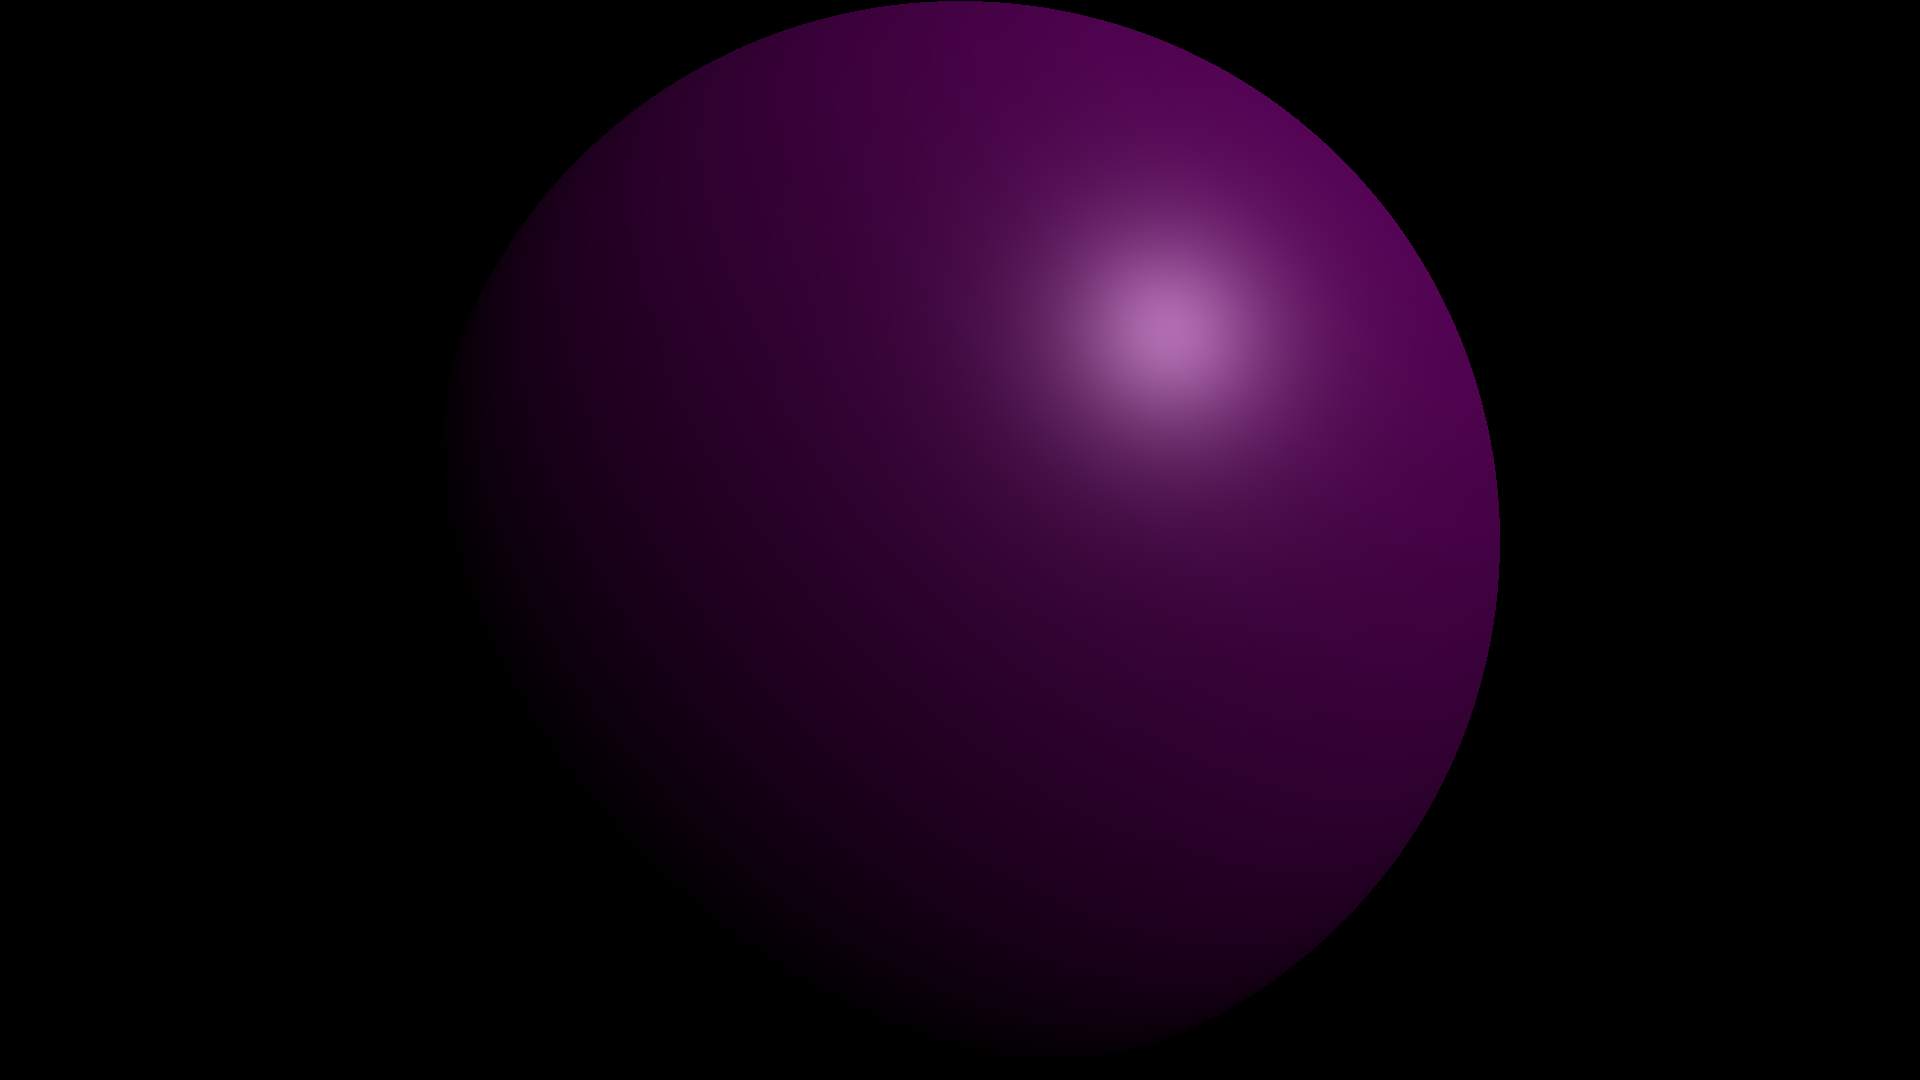
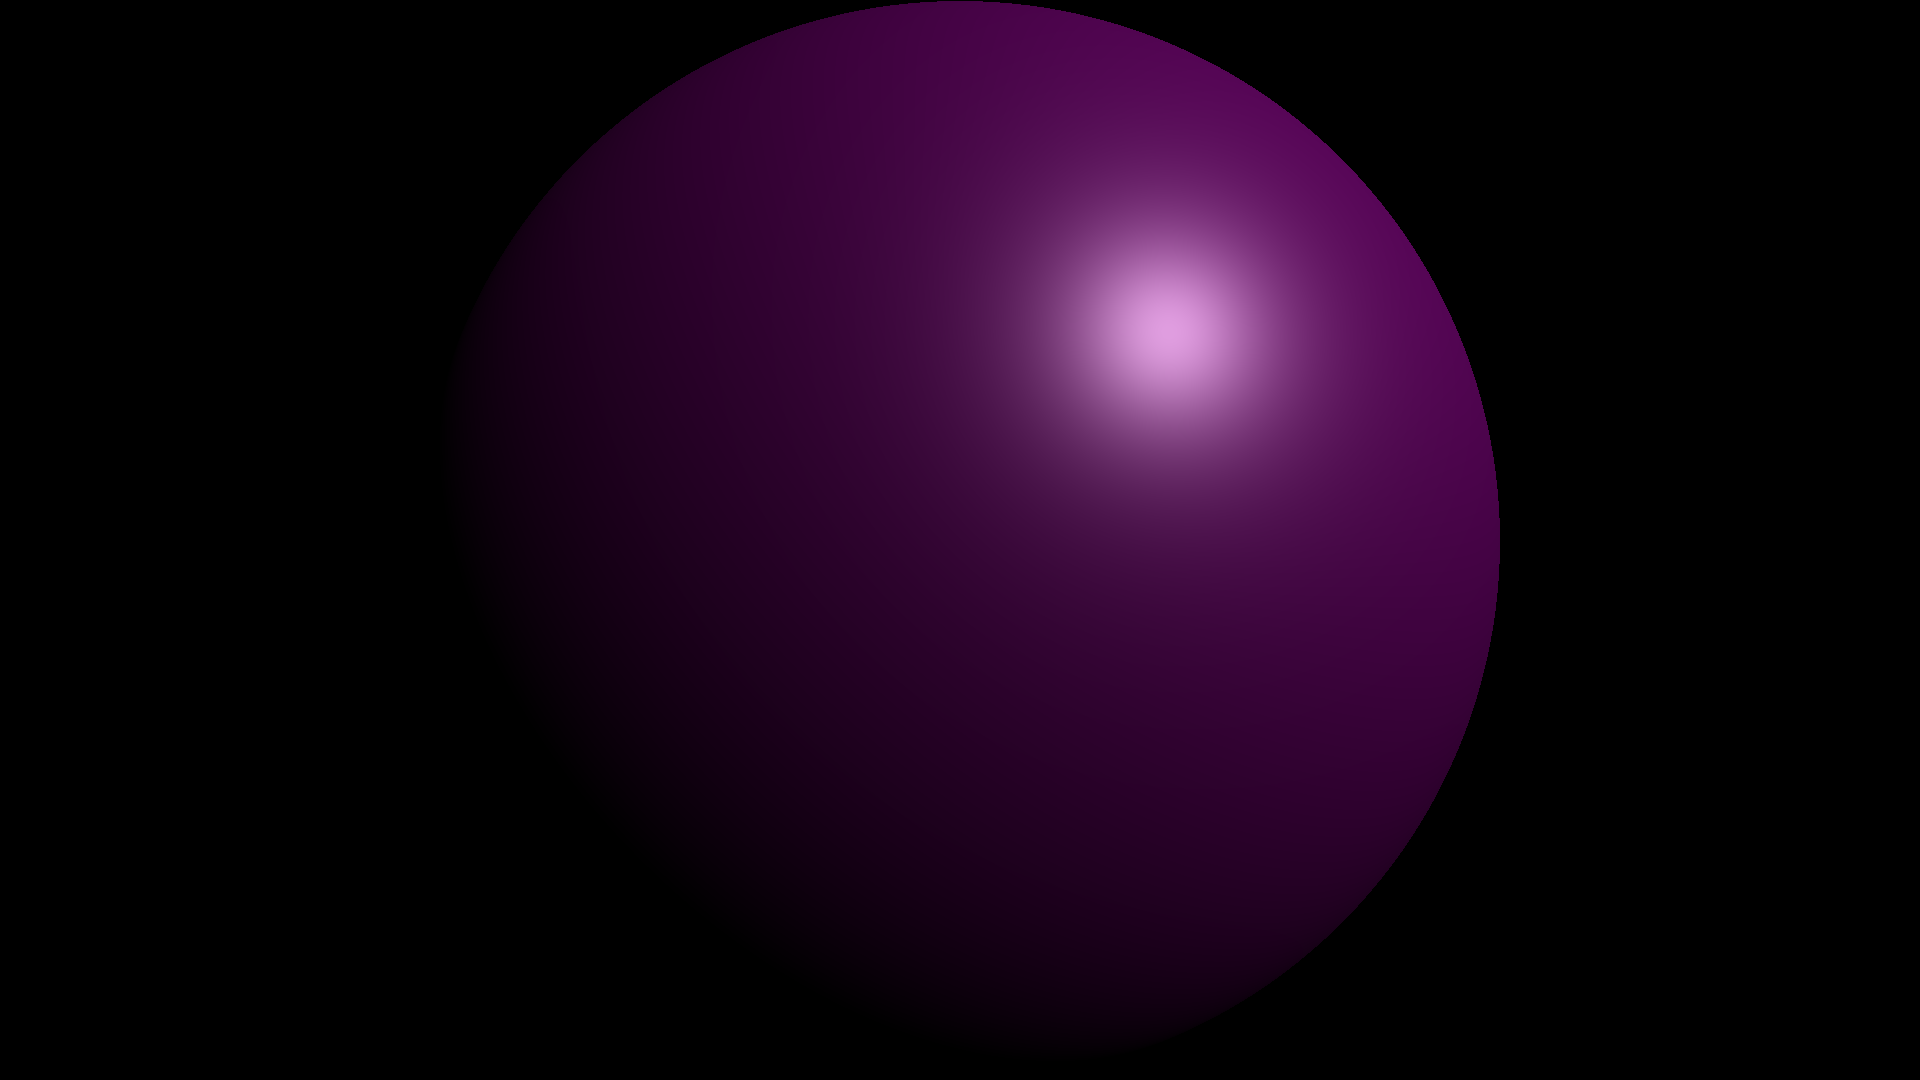
Material reflectance and transmittance
Also configurable typedef for Arc and world default

And a more digestible write_png function in spherecast

Changed region(s): [[0.5625, 0.2139, 0.6562, 0.3972]]

diff --git a/src/primitive/sphere.rs b/src/primitive/sphere.rs
@@ -2,16 +2,16 @@ use crate::math::*;
 use crate::{Ray, Hit, Material};
 use nalgebra_glm as glm;
 use super::Primitive;
-use std::sync::Arc;
+use std::sync::Arc as Shared;
 
 #[derive(Debug)]
 pub struct Sphere {
     pub center: Vec3,
     pub radius: Scalar,
-    pub material: Arc<Material>,
+    pub material: Shared<Material>,
 }
 impl Sphere {
-    pub fn new(center: Vec3, radius: Scalar, material: &Arc<Material>) -> Self {
+    pub fn new(center: Vec3, radius: Scalar, material: &Shared<Material>) -> Self {
         Sphere {
             center: center,
             radius: radius,
@@ -56,12 +56,12 @@ mod tests {
     use crate::{Ray, Material};
     use super::{Primitive, Sphere};
     use nalgebra_glm as glm;
-    use std::sync::Arc;
+    use std::sync::Arc as Shared;
 
     #[test]
     fn sphere_at_origin_closest_intersection() {
         let ray = Ray::new(Vec3::new(0.0, 0.0, -2.0), *consts::FORWARD);
-        let sphere = Sphere::new(*consts::ORIGIN, 1.0, &Arc::new(Material::default()));
+        let sphere = Sphere::new(*consts::ORIGIN, 1.0, &Shared::new(Material::default()));
         let hit = sphere.nearest_intersection(&ray).unwrap();
 
         assert!((hit.distance - 1.0).abs() <= consts::EPSILON);
@@ -71,7 +71,7 @@ mod tests {
     #[test]
     fn sphere_at_origin_miss() {
         let ray = Ray::new(Vec3::new(0.0, 0.0, -2.0), glm::normalize(&Vec3::new(0.0, 1.0, 1.0)));
-        let sphere = Sphere::new(*consts::ORIGIN, 1.0, &Arc::new(Material::default()));
+        let sphere = Sphere::new(*consts::ORIGIN, 1.0, &Shared::new(Material::default()));
         let hit = sphere.nearest_intersection(&ray);
         assert!(hit.is_none());
     }
@@ -79,7 +79,7 @@ mod tests {
     #[test]
     fn sphere_at_origign_cull_rear_intersections() {
         let ray = Ray::new(*consts::ORIGIN, *consts::FORWARD);
-        let sphere = Sphere::new(*consts::ORIGIN, 1.0, &Arc::new(Material::default()));
+        let sphere = Sphere::new(*consts::ORIGIN, 1.0, &Shared::new(Material::default()));
         let hit = sphere.nearest_intersection(&ray).unwrap();
 
         assert!((hit.distance - 1.0).abs() <= consts::EPSILON);
@@ -89,7 +89,7 @@ mod tests {
     #[test]
     fn sphere_translated_closest_intersection() {
         let ray = Ray::new(*consts::ORIGIN, *consts::FORWARD);
-        let sphere = Sphere::new(Vec3::new(0.0, 0.0, 11.0), 1.0, &Arc::new(Material::default()));
+        let sphere = Sphere::new(Vec3::new(0.0, 0.0, 11.0), 1.0, &Shared::new(Material::default()));
         let hit = sphere.nearest_intersection(&ray).unwrap();
 
         println!("{:?} {:?}", sphere, hit);

diff --git a/src/material.rs b/src/material.rs
@@ -1,27 +1,33 @@
-/**
- * UE4-like material model defined by roughness, metallic, and albedo
- */
 use crate::math::Vec3;
 use crate::{Ray, Color3};
 use nalgebra_glm as glm;
 use std::f32::consts::PI;
 
-// TODO: textures
-// TODO: emissive
+/**
+ * A physically-based material model
+ * TODO: textures
+ * TODO: should area lights be implemented by adding an emissive component?
+ */
 #[derive(Debug, Copy, Clone)]
 pub struct Material {
     pub roughness: f32,
     pub metallic: f32,
     pub albedo: Color3,
+    pub reflectance: Color3,
+    pub transmittance: Color3,
     pub ior: f32,
+    pub fresnel_ior: f32, // separate the IOR used in shading from the IOR used for refraction, solely for artistic expressiveness (not physically-based)
 }
 impl Material {
-    pub fn new(roughness: f32, metallic: f32, albedo: Color3, ior: f32) -> Self {
+    pub fn new(roughness: f32, metallic: f32, albedo: Color3, reflectance: Color3, transmittance: Color3, ior: f32) -> Self {
         Material {
             roughness: roughness,
             metallic: metallic,
             albedo: albedo,
+            reflectance: reflectance,
+            transmittance: transmittance,
             ior: ior,
+            fresnel_ior: ior,
         }
     }
 
@@ -60,8 +66,9 @@ impl Material {
         let g = g1_l * g1_v;
 
         // F: schlick's fresnel approximation
-        let sqrt_f0 = (1.0 - self.ior) / (1.0 + self.ior); // the 1.0 is the
+        let sqrt_f0 = (1.0 - self.fresnel_ior) / (1.0 + self.fresnel_ior); // the 1.0 is the IOR of the material the ray is exiting (assumed air)
         let f0 = Color3::gray(sqrt_f0 * sqrt_f0).mix(&self.albedo, self.metallic);
+        // TODO: this forumula is a bad approximation for metals
         let f = f0 + (Color3::gray(1.0) - f0) * (1.0 - voh).powi(5);
 
         let specular = (d * f * g) / (4.0 * nol * nov);
@@ -76,9 +83,9 @@ impl Material {
     }
 }
 
-// a fairly rough pink material
+// a fairly rough pink plastic
 impl Default for Material {
     fn default() -> Self {
-        Material::new(0.5, 0.0, Color3::new(1.0, 0.0, 1.0), 3.5)
+        Material::new(0.5, 0.0, Color3::new(1.0, 0.0, 1.0), Color3::gray(0.0), Color3::gray(0.0), 5.0)
     }
 }

diff --git a/examples/spherecast.rs b/examples/spherecast.rs
@@ -4,7 +4,7 @@ use raytracer::primitive::Sphere;
 use raytracer::{Camera, Screen, World, Material};
 use nalgebra_glm as glm;
 
-use std::{path::Path, fs::File, io::BufWriter, sync::Arc};
+use std::{path::Path, fs::File, io::BufWriter, error::Error, sync::Arc as Shared};
 use png::HasParameters;
 
 fn slice_bytes<T>(slice: &[T]) -> &[u8] {
@@ -15,20 +15,29 @@ fn slice_bytes<T>(slice: &[T]) -> &[u8] {
     }
 }
 
-fn main() {
-    let sphere = Sphere::new(glm::zero(), 1.0, &Arc::new(Material::default()));
+fn write_png<T>(bytes: &[u8], w: u32, h: u32, path: &T) -> Result<(), Box<Error>>
+    where T: AsRef<Path> {
+    let file = File::create(path)?;
+    let ref mut bw = BufWriter::new(file);
+
+    let mut e = png::Encoder::new(bw, w.into(), h.into());
+    e.set(png::ColorType::RGB).set(png::BitDepth::Eight);
+    let mut writer = e.write_header()?;
+    writer.write_image_data(&bytes)?;
+
+    Ok(())
+}
+
+fn main() -> Result<(), Box<Error>> {
+    let sphere = Sphere::new(glm::zero(), 1.0, &Shared::new(Material::default()));
     let world = World { primitives: vec![Box::new(sphere)] };
     let camera = Camera::new(Vec3::new(0.0, 0.0, 2.0), glm::quat_identity(), consts::FRAC_PI_3, 16.0/9.0, None);
     let screen = Screen::new(1920, 1080);
     let image = screen.render(&camera, &world);
     let image_bytes = slice_bytes(&image);
 
-    let path = Path::new(r"out/spherecast.png");
-    let file = File::create(path).unwrap();
-    let ref mut w = BufWriter::new(file);
+    const PATH: &'static str = r"out/spherecast.png";
+    write_png(&image_bytes, screen.width as u32, screen.height as u32, &PATH)?;
 
-    let mut e = png::Encoder::new(w, screen.width as u32, screen.height as u32);
-    e.set(png::ColorType::RGB).set(png::BitDepth::Eight);
-    let mut writer = e.write_header().unwrap();
-    writer.write_image_data(&image_bytes).unwrap();
+    Ok(())
 }

diff --git a/src/ray.rs b/src/ray.rs
@@ -1,6 +1,6 @@
 use crate::math::*;
 use crate::Material;
-use std::sync::Arc;
+use std::sync::Arc as Shared;
 
 #[derive(Debug)]
 pub struct Ray {
@@ -24,11 +24,11 @@ impl Ray {
 pub struct Hit {
     pub distance: Scalar,
     pub normal: Vec3,
-    pub material: Arc<Material>,
+    pub material: Shared<Material>,
     // TODO: more information (primitive id, etc)
 }
 impl Hit {
-    pub fn new(distance: Scalar, normal: Vec3, material: &Arc<Material>) -> Self {
+    pub fn new(distance: Scalar, normal: Vec3, material: &Shared<Material>) -> Self {
         Hit {
             distance: distance,
             normal: normal,

diff --git a/src/world.rs b/src/world.rs
@@ -16,3 +16,10 @@ impl World {
 
     // TODO: pub fn trace(...)
 }
+impl Default for World {
+    fn default() -> Self {
+        World {
+            primitives: vec![],
+        }
+    }
+}
